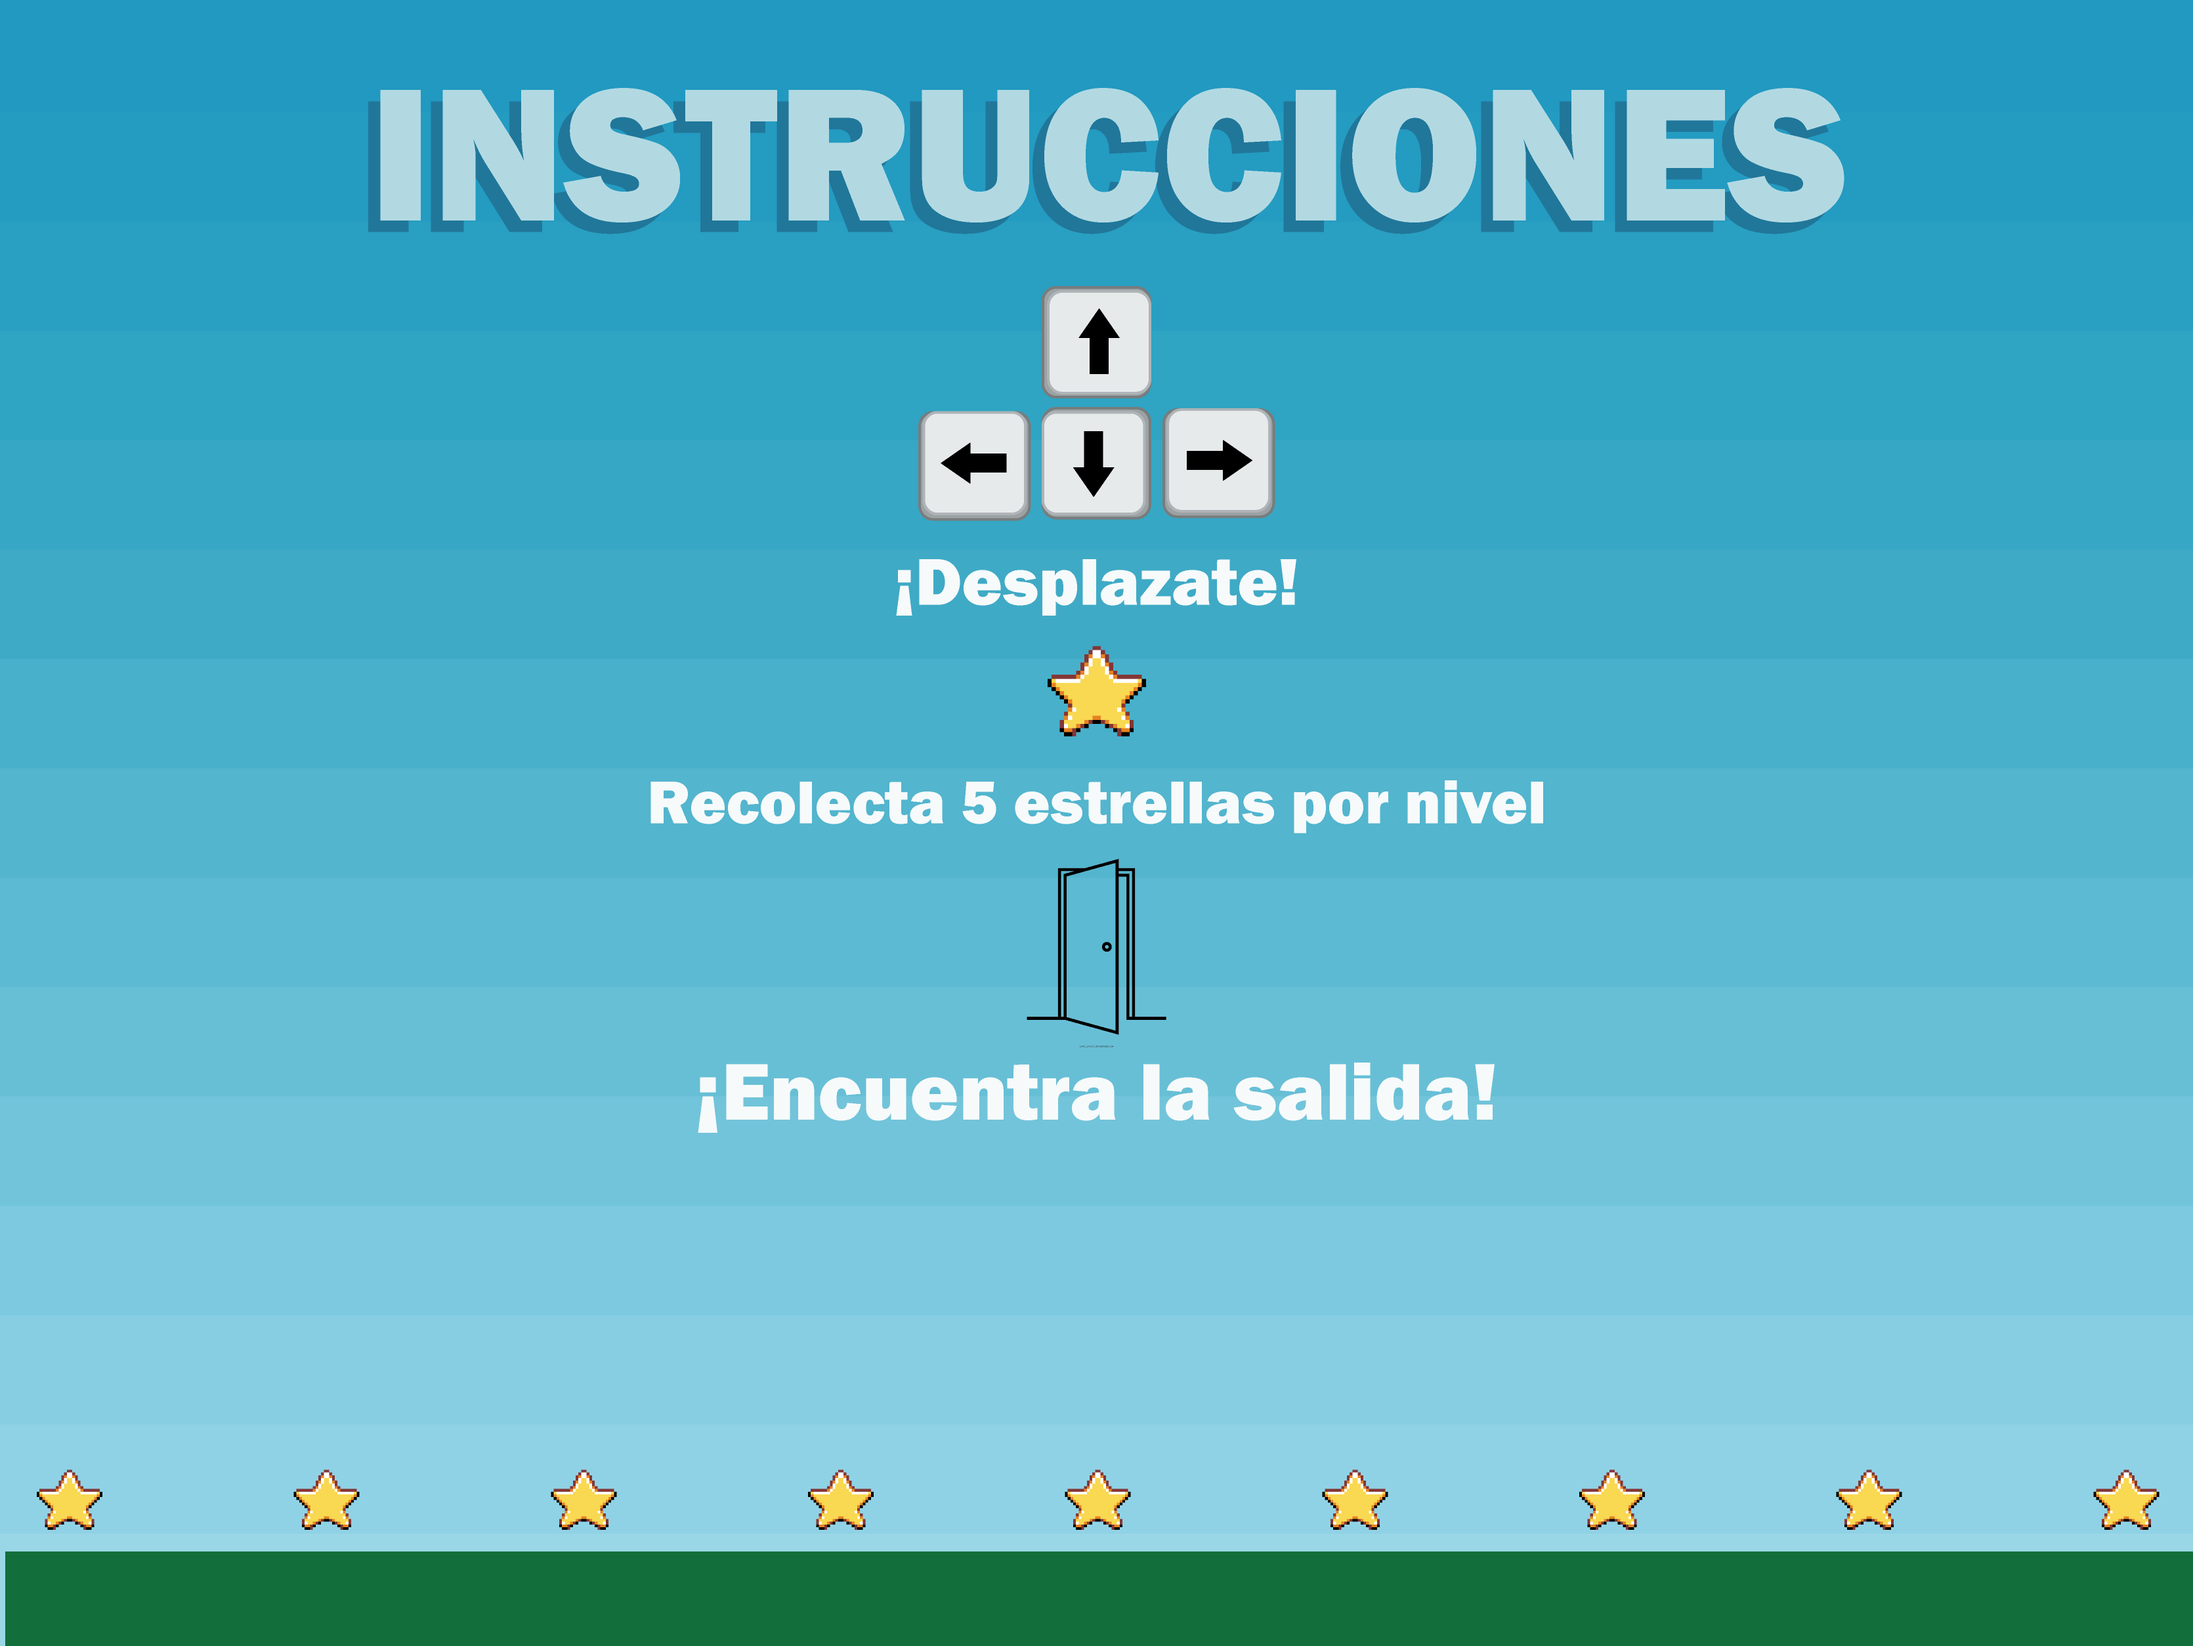
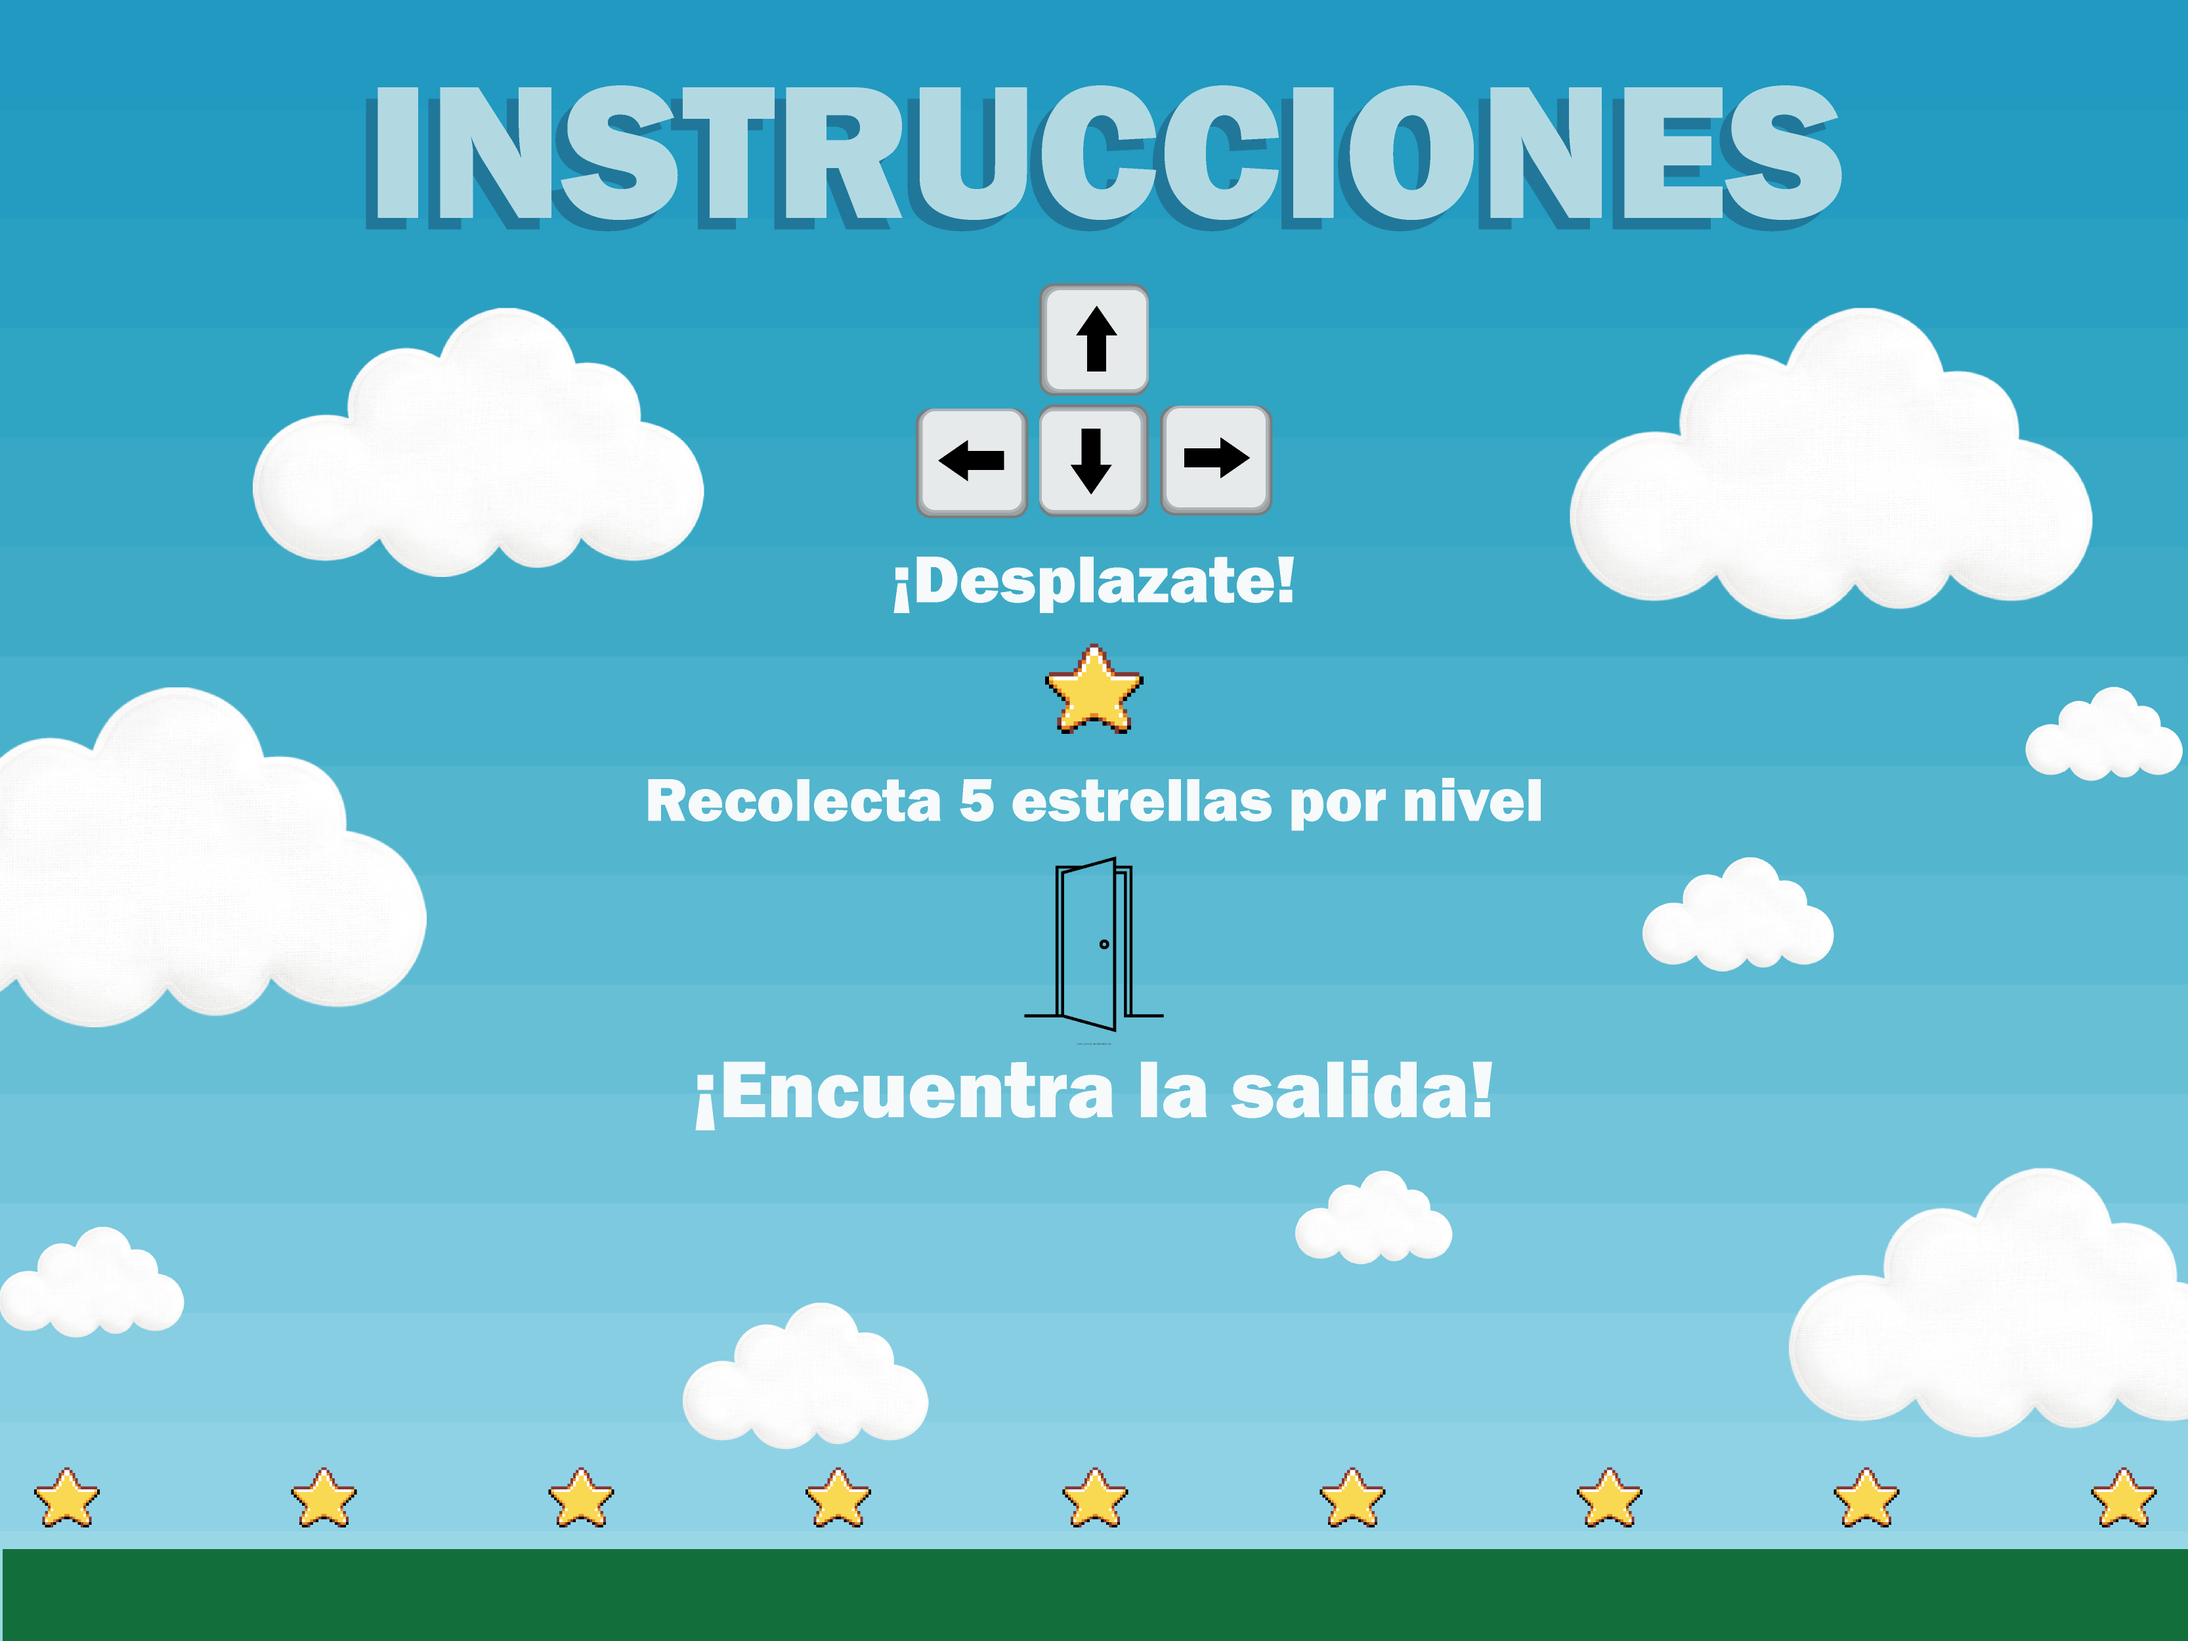
cambios esteticos

diff --git a/src/scenes/Menu.js b/src/scenes/Menu.js
@@ -10,9 +10,17 @@ export default class Menu extends Phaser.Scene {
         this.load.image("fondo", "./public/images/menu.png");
         this.load.image("jugar", "./public/images/boton.png");
         this.load.image("moncho", "./public/images/moncho.png");
+        this.load.image("nube", "./public/images/nube.png");
     }
     create() {
         this.add.image(400, 300, "fondo").setScale(0.24);
+        this.add.image(50, 200, "nube").setScale(0.40);
+        this.add.image(100, 470, "nube").setScale(0.10);
+        this.add.image(400, 450, "nube").setScale(0.40);
+        this.add.image(670, 250, "nube").setScale(0.25);
+        this.add.image(700, 80, "nube").setScale(0.15);
+        this.add.image(780, 400, "nube").setScale(0.50);
+        this.add.image(180, 350, "nube").setScale(0.25);
         const button = this.add.image(400, 330, "jugar").setScale(0.20).setInteractive();
         this.add.image(400, 275, "moncho");
         button.on("pointerover", () => {

diff --git a/src/scenes/Nivel2..js b/src/scenes/Nivel2..js
@@ -97,7 +97,7 @@ export default class Juego extends Phaser.Scene {
         this.jugador,
         this.salida,
         this.esVencedor,
-        () => this.cantidadEstrellas >= 5, // condicion de ejecucion
+        () => this.cantidadEstrellas >= 10, // condicion de ejecucion
         this
       );
   

diff --git a/src/scenes/Nivel3.js b/src/scenes/Nivel3.js
@@ -99,7 +99,7 @@ export default class Juego extends Phaser.Scene {
       this.jugador,
       this.salida,
       this.esVencedor,
-      () => this.cantidadEstrellas >= 5, // condicion de ejecucion
+      () => this.cantidadEstrellas >= 15, // condicion de ejecucion
       this
     );
 
